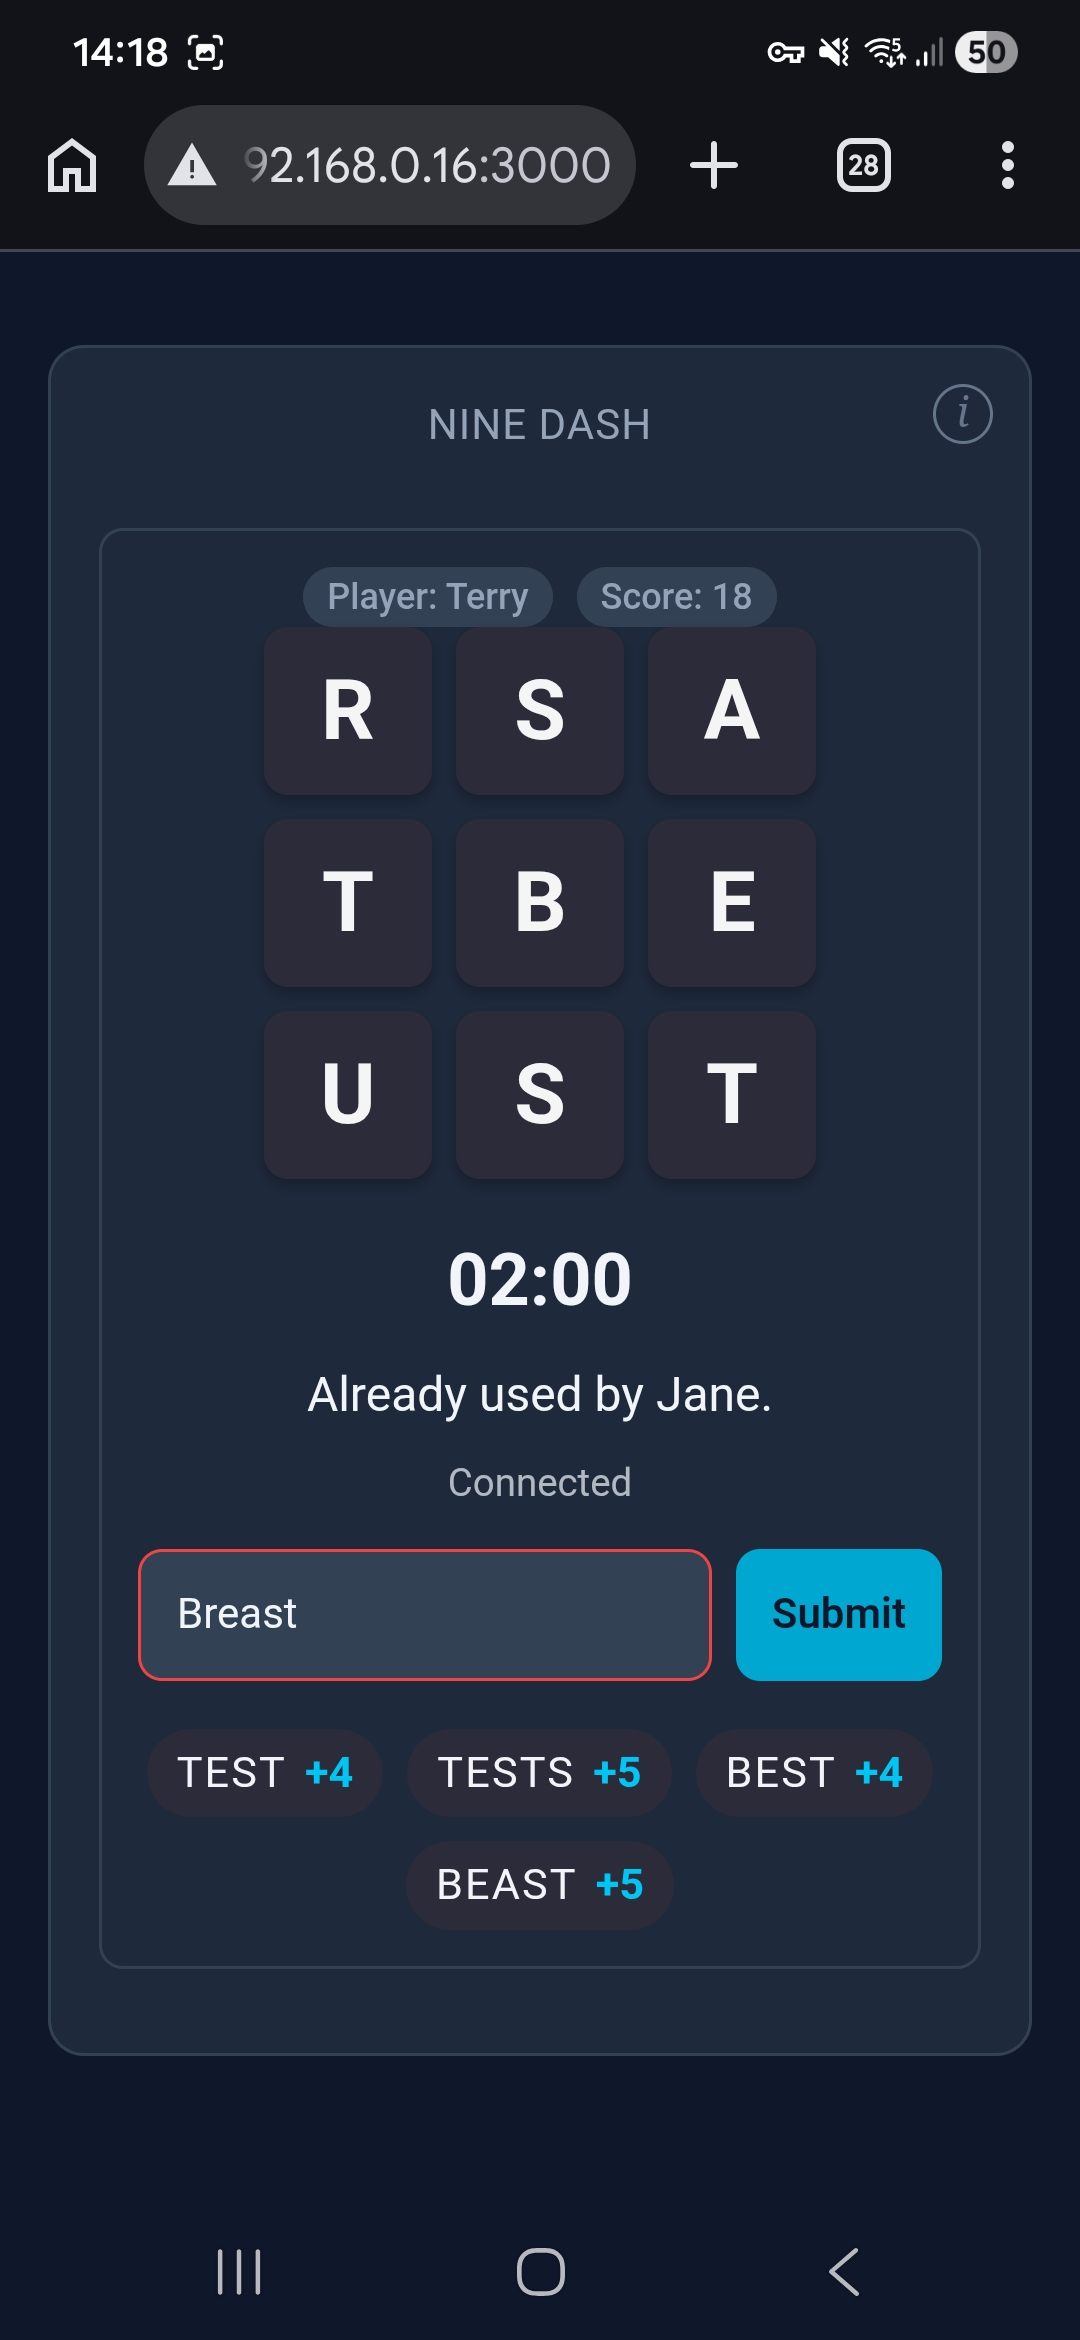
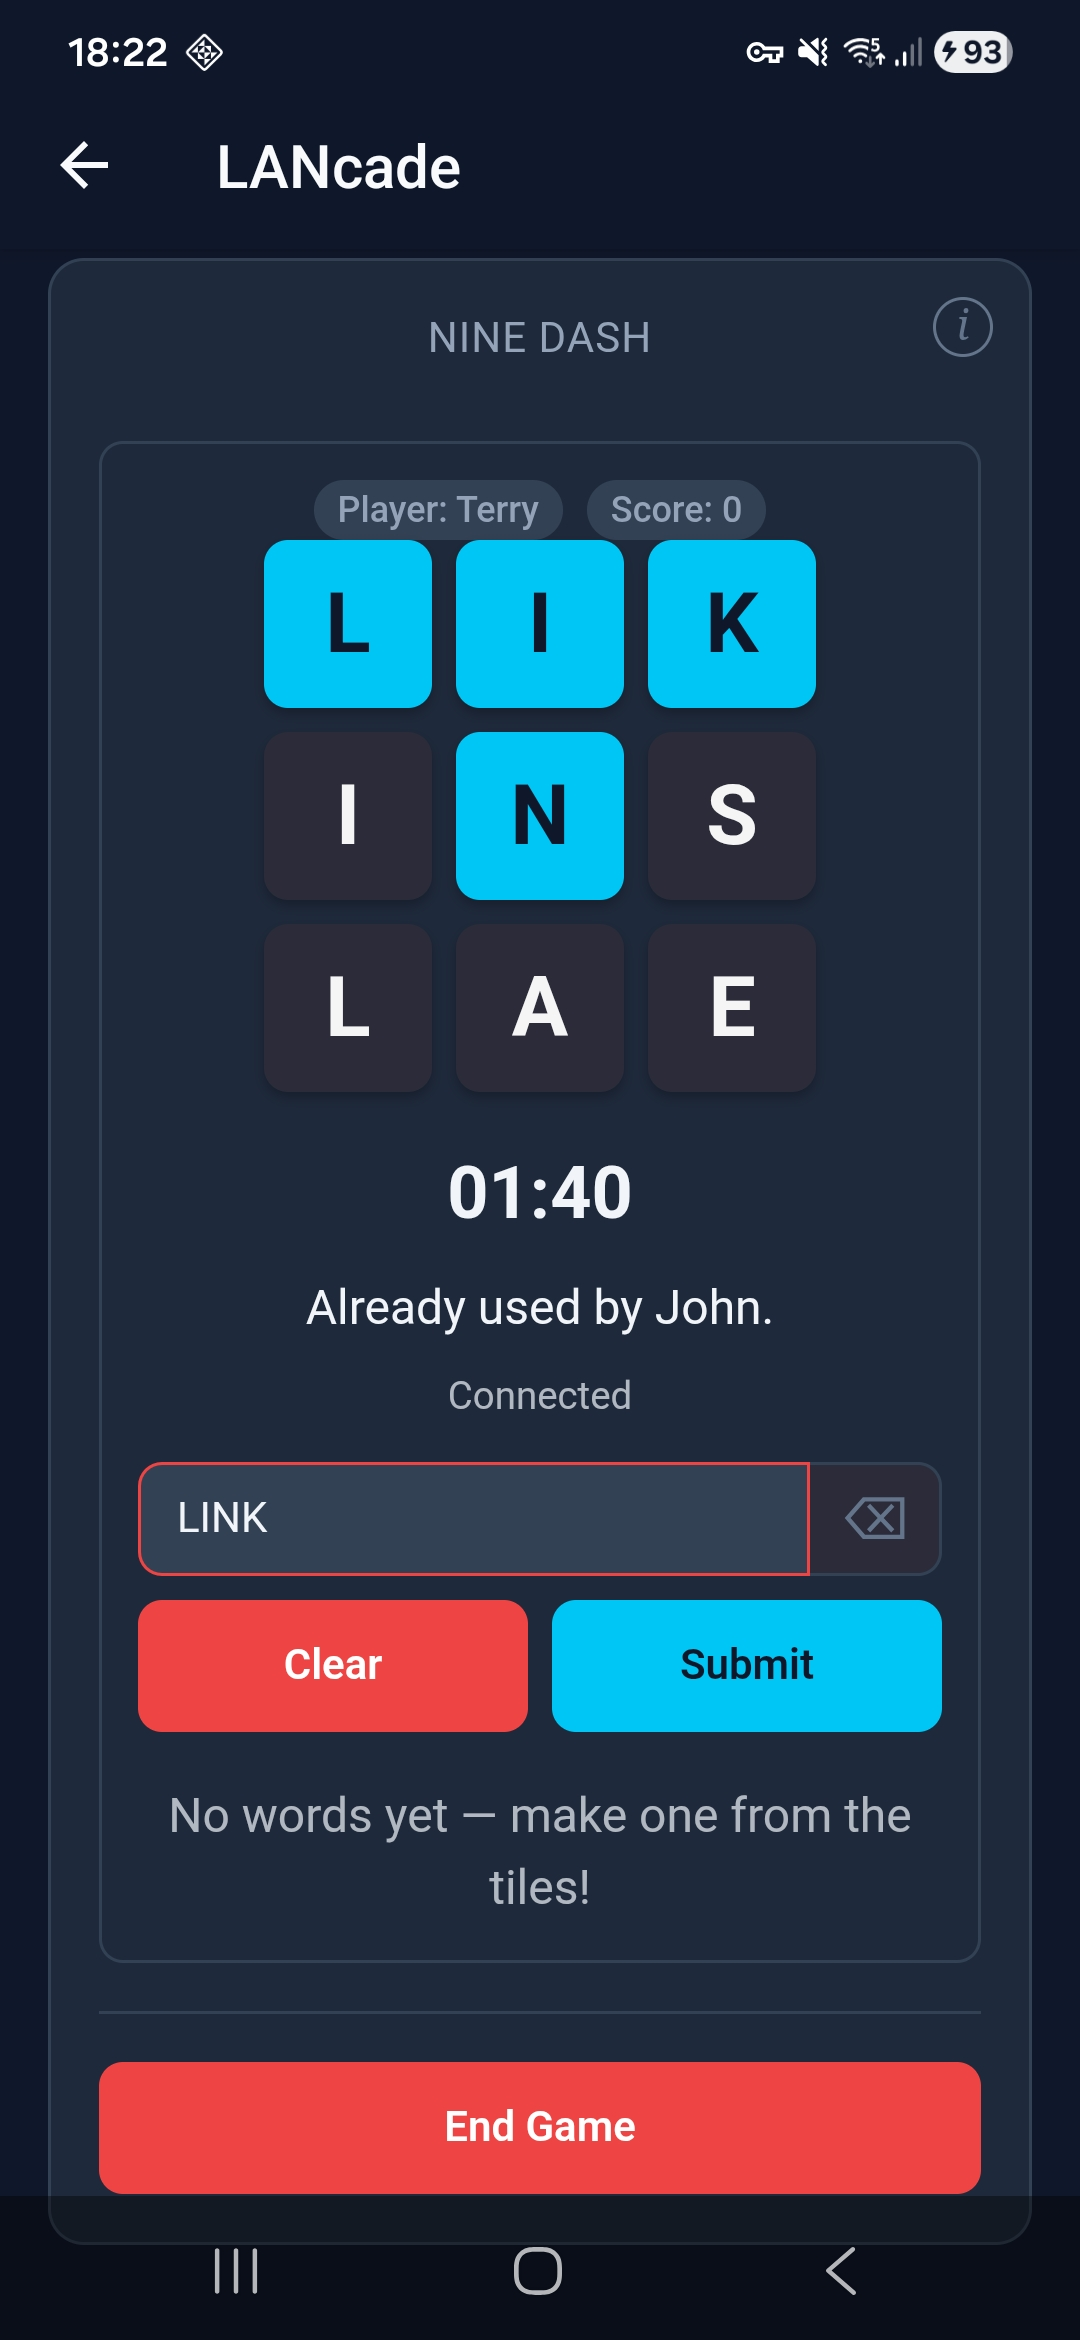
fix: clear word input when letter advances in Alphabet Race

diff --git a/frontend/src/alphabetRace/tests/AlphabetRaceGame.test.tsx b/frontend/src/alphabetRace/tests/AlphabetRaceGame.test.tsx
@@ -1,5 +1,5 @@
 import { describe, it, expect, vi, beforeEach } from 'vitest';
-import { render, screen } from '@testing-library/react';
+import { render, screen, fireEvent } from '@testing-library/react';
 import { AlphabetRaceGame } from '../AlphabetRaceGame';
 import type { AlphabetRaceState } from '@lancade/shared';
 
@@ -155,6 +155,25 @@ describe('AlphabetRaceGame', () => {
       render(<AlphabetRaceGame {...createDefaultProps(state)} />);
 
       expect(screen.getByText(/Category: Animals/)).toBeInTheDocument();
+    });
+
+    it('clears word input when the letter advances', () => {
+      const state = createBaseState();
+      state.match.state = 'racing';
+      state.match.currentLetter = 'A';
+
+      const { rerender } = render(<AlphabetRaceGame {...createDefaultProps(state)} />);
+
+      const input = screen.getByRole('textbox');
+      fireEvent.change(input, { target: { value: 'apple' } });
+      expect(input).toHaveValue('apple');
+
+      state.match.currentLetter = 'B';
+      state.match.currentLetterIndex = 1;
+      state.match.completedCount = 1;
+      rerender(<AlphabetRaceGame {...createDefaultProps(state)} />);
+
+      expect(screen.getByRole('textbox')).toHaveValue('');
     });
   });
 

diff --git a/docs/games/ninedash.html b/docs/games/ninedash.html
@@ -47,12 +47,8 @@
         <p class="screenshot-caption">Successful submissions turn the input box green.</p>
       </div>
       <div class="screenshot-col">
-        <img class="screenshot" src="screenshots/ninedash/ninedash_incorrect_word.jpg" alt="Nine Dash — incorrect word">
+        <img class="screenshot" src="screenshots/ninedash/ninedash_blocked.jpg" alt="Nine Dash — incorrect word">
         <p class="screenshot-caption">Words already used by you or others are rejected and shown in red.</p>
-      </div>
-      <div class="screenshot-col">
-        <img class="screenshot" src="screenshots/ninedash/ninedash_blocked.jpg" alt="Nine Dash — blocked word">
-        <p class="screenshot-caption">A word that has already been taken by another player is also rejected.</p>
       </div>
     </div>
 

diff --git a/frontend/src/alphabetRace/AlphabetRaceGame.tsx b/frontend/src/alphabetRace/AlphabetRaceGame.tsx
@@ -76,7 +76,8 @@ export function AlphabetRaceGame({
     setStatus('');
     setSubmitStatus('');
     setVoteStatus('');
-  }, [match.id]);
+    setWordInput('');
+  }, [match.id, match.currentLetter]);
 
   useEffect(() => {
     return () => { if (flashTimerRef.current) clearTimeout(flashTimerRef.current); };
